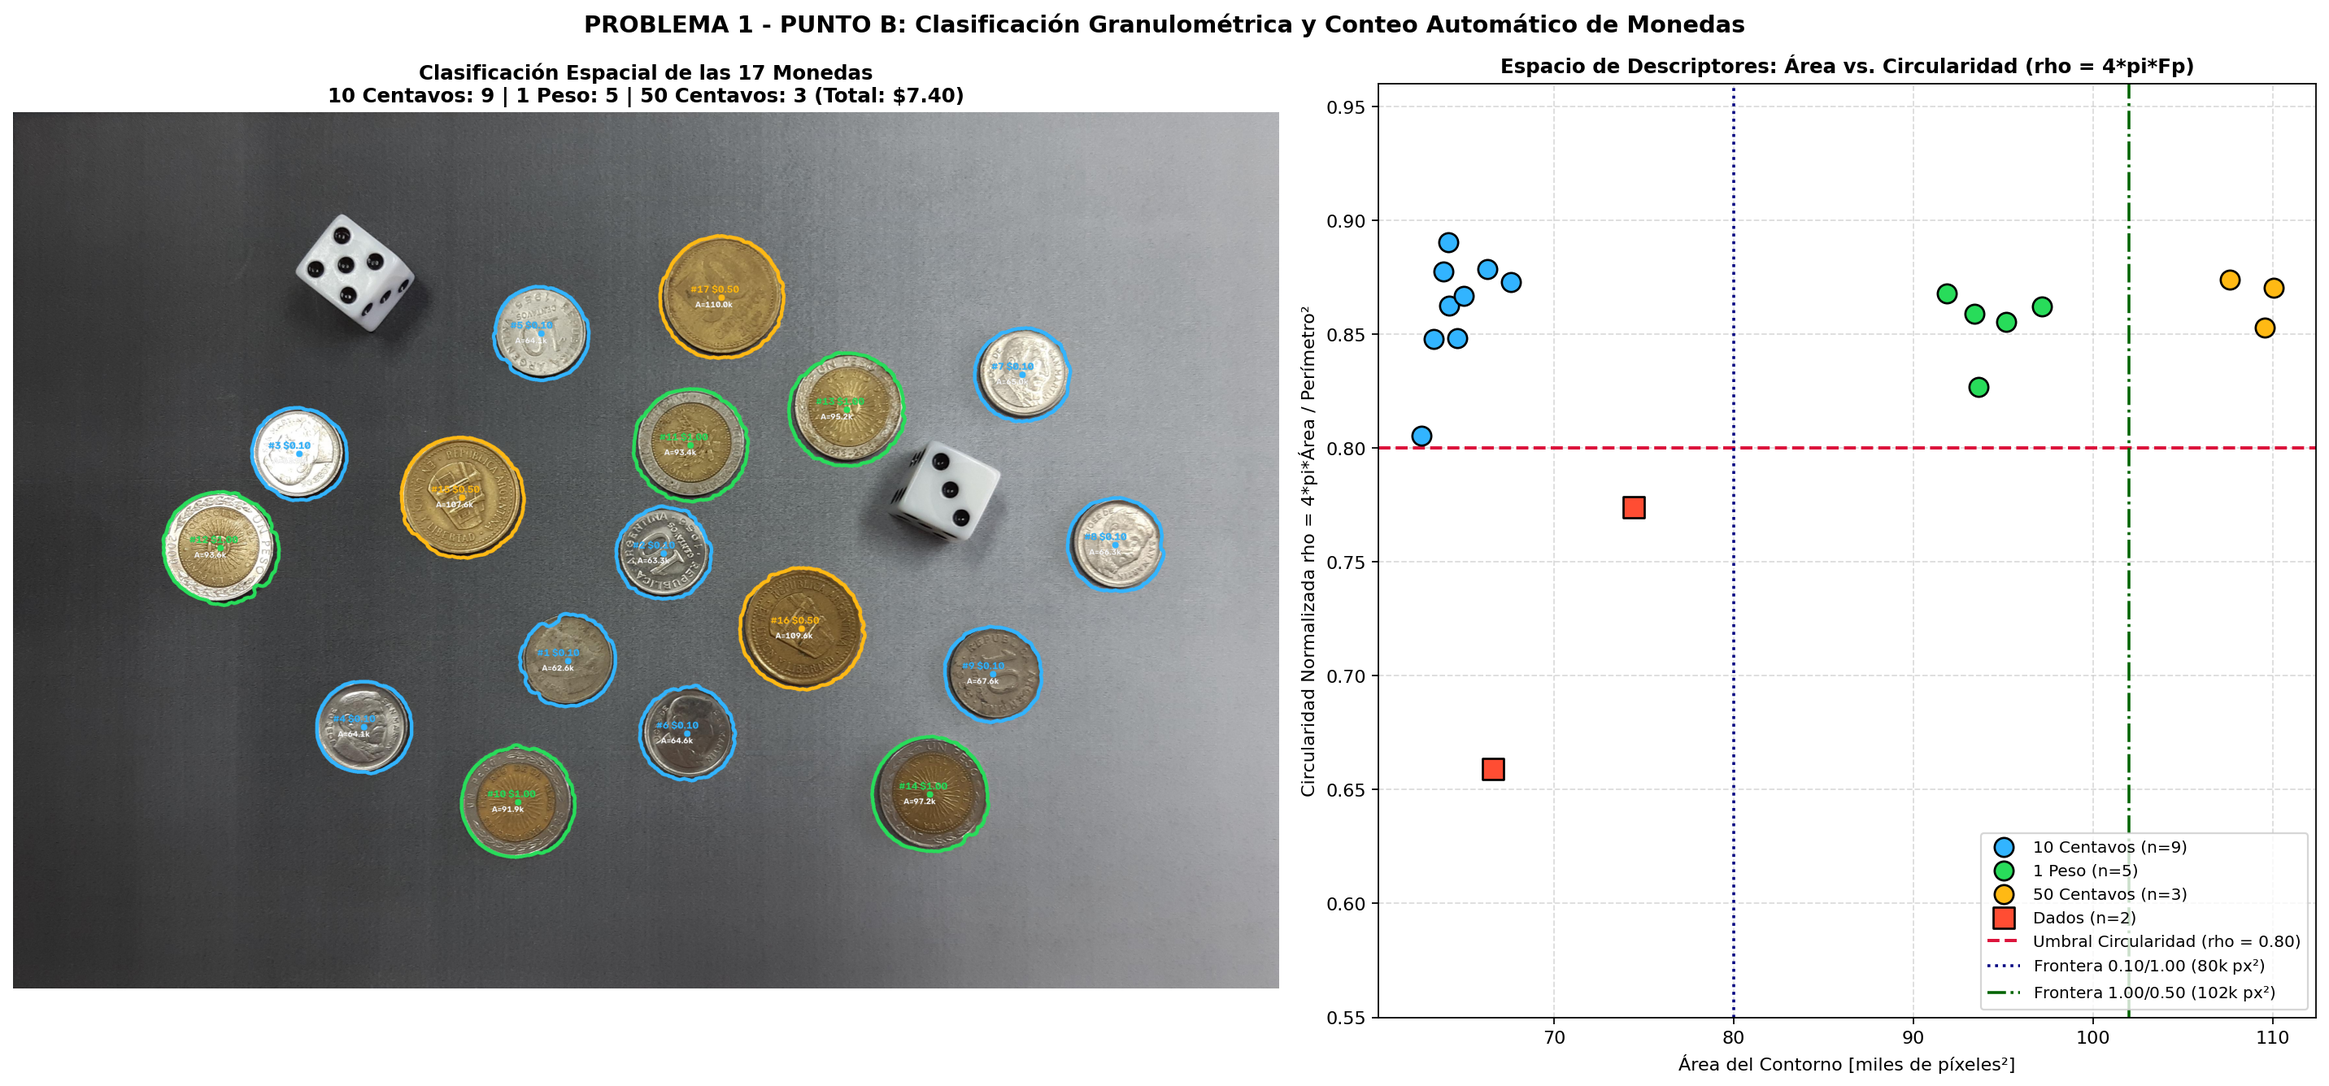
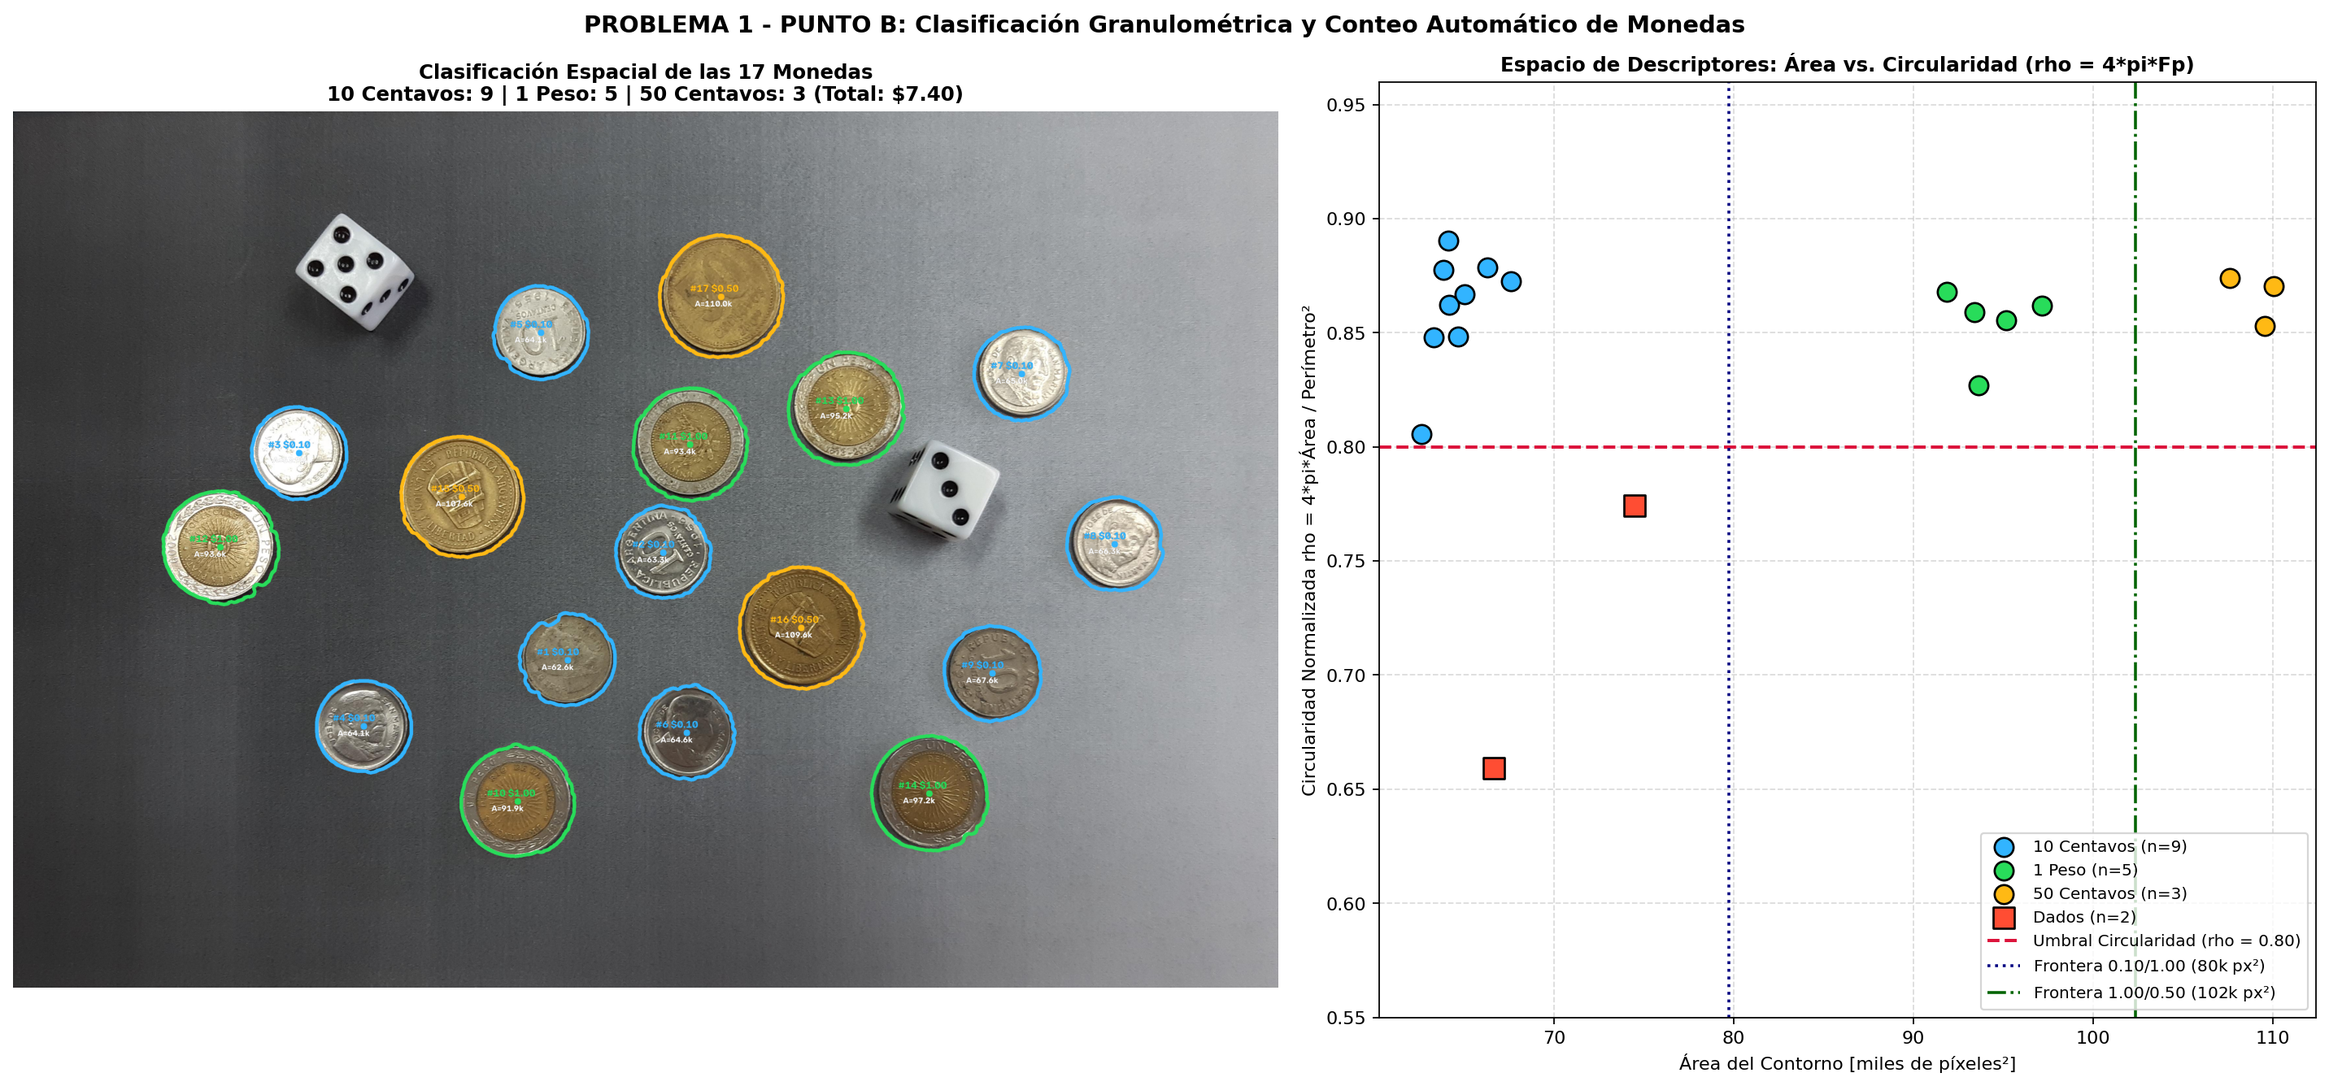
feat(p1): umbrales dinamicos, invarianza a escala, histograma grad_u8 y layout 4x2

diff --git a/problema1_monedas_y_dados.py b/problema1_monedas_y_dados.py
@@ -105,6 +105,18 @@ def segmentar_objetos(img_bgr):
     """
     # 1. Conversión a escala de grises (Unidad 1 / Unidad 5)
     gray = cv2.cvtColor(img_bgr, cv2.COLOR_BGR2GRAY)
+    h_img, w_img = gray.shape
+    dim_min = float(min(h_img, w_img))
+
+    def _impar(val, minimo=3):
+        v = max(minimo, int(round(val)))
+        return v if v % 2 == 1 else v + 1
+
+    # Tamaños de filtro y EE proporcionales a la resolución (invarianza a escala)
+    k_med = _impar(dim_min * 0.0041, minimo=3)     # 11 en 3871x2681
+    pad_borde = max(3, int(round(dim_min * 0.0037)))  # 10 px en 3871x2681
+    k_close = _impar(dim_min * 0.0056, minimo=3)   # 15 en 3871x2681
+    k_open = _impar(dim_min * 0.0115, minimo=5)    # 31 en 3871x2681
 
     # Demostración de por qué falla el umbralado global directo sobre fondo no uniforme
     th_otsu_global, bw_otsu_global = cv2.threshold(
@@ -113,7 +125,7 @@ def segmentar_objetos(img_bgr):
 
     # 2. Filtrado espacial de mediana para eliminar ruido impulsivo y textura del fondo
     #    preservando los bordes de las monedas y dados (Unidad 2)
-    gray_med = cv2.medianBlur(gray, 11)
+    gray_med = cv2.medianBlur(gray, k_med)
 
     # 3. Magnitud exacta del Gradiente de Sobel (Unidad 3: PDI_U3_Segmentacion.py)
     #    La derivada espacial suprime el gradiente suave de iluminación del fondo
@@ -122,25 +134,50 @@ def segmentar_objetos(img_bgr):
     grad_mag = np.sqrt(grad_x ** 2 + grad_y ** 2)
     grad_u8 = np.uint8(np.clip(grad_mag, 0, 255))
 
-    # Anulamos artefactos de borde de 10 px para garantizar semilla limpia en (0, 0)
-    grad_u8[:10, :] = 0
-    grad_u8[-10:, :] = 0
-    grad_u8[:, :10] = 0
-    grad_u8[:, -10:] = 0
+    # Anulamos artefactos de borde proporcionalmente para garantizar semilla limpia en (0, 0)
+    grad_u8[:pad_borde, :] = 0
+    grad_u8[-pad_borde:, :] = 0
+    grad_u8[:, :pad_borde] = 0
+    grad_u8[:, -pad_borde:] = 0
 
-    # 4. Umbralado estadístico automático del gradiente (Media + 0.9 * Desvío Estándar)
-    th_grad = float(np.round(grad_u8.mean() + 0.9 * grad_u8.std()))
+    # 4. Umbralado estadístico dinámico del gradiente: th_grad = round(mu + k_opt * sigma)
+    #    Barrido sobre k en [0.5, 1.5] para elegir el mayor k que maximiza la cantidad
+    #    de componentes cerradas válidas tras clausura + imfillhole + apertura.
+    AREA_MIN = max(500.0, 0.0014 * float(h_img * w_img))  # ~0.14% del área total (~14,529 px^2 en 3871x2681)
+
+    se_close = cv2.getStructuringElement(cv2.MORPH_ELLIPSE, (k_close, k_close))
+    se_open = cv2.getStructuringElement(cv2.MORPH_ELLIPSE, (k_open, k_open))
+
+    grad_mean = float(grad_u8.mean())
+    grad_std = float(grad_u8.std())
+
+    sweep_k = []
+    best_count = -1
+    k_opt = 0.9
+    for k_cand in np.round(np.arange(0.5, 1.55, 0.1), 2):
+        t_cand = float(np.round(grad_mean + k_cand * grad_std))
+        _, bw_e = cv2.threshold(grad_u8, t_cand, 255, cv2.THRESH_BINARY)
+        bw_c = cv2.morphologyEx(bw_e, cv2.MORPH_CLOSE, se_close)
+        bw_f = imfillhole(bw_c)
+        bw_m = cv2.morphologyEx(bw_f, cv2.MORPH_OPEN, se_open)
+        n_lbl, _, st, _ = cv2.connectedComponentsWithStats(bw_m)
+        valid_cnt = sum(1 for idx_lbl in range(1, n_lbl) if st[idx_lbl, cv2.CC_STAT_AREA] >= AREA_MIN)
+        sweep_k.append({"k": float(k_cand), "th": t_cand, "valid_count": int(valid_cnt)})
+        # En empate de máximo número de objetos, elegimos el mayor k (bordes más limpios sin abrir contornos)
+        if valid_cnt >= best_count:
+            best_count = valid_cnt
+            k_opt = float(k_cand)
+
+    th_grad = float(np.round(grad_mean + k_opt * grad_std))
     _, bw_edges = cv2.threshold(grad_u8, th_grad, 255, cv2.THRESH_BINARY)
 
     # 5. Clausura morfológica para conectar micro-cortes en el perímetro (Unidad 6)
-    se_close = cv2.getStructuringElement(cv2.MORPH_ELLIPSE, (15, 15))
     bw_closed = cv2.morphologyEx(bw_edges, cv2.MORPH_CLOSE, se_close)
 
     # 6. Rellenado morfológico de huecos internos (Unidad 6: imfillhole)
     bw_filled = imfillhole(bw_closed)
 
     # 7. Apertura morfológica para suavizar contornos y eliminar ruido aislado (Unidad 6)
-    se_open = cv2.getStructuringElement(cv2.MORPH_ELLIPSE, (31, 31))
     bw_mask = cv2.morphologyEx(bw_filled, cv2.MORPH_OPEN, se_open)
 
     # 8. Extracción de componentes conexas y separación Monedas vs Dados por Factor de Forma
@@ -150,7 +187,6 @@ def segmentar_objetos(img_bgr):
     num_labels, labels, stats, centroids = cv2.connectedComponentsWithStats(bw_mask)
 
     RHO_TH = 0.80       # Umbral de circularidad de cátedra (clasifico_celulas.py)
-    AREA_MIN = 15000    # Descarte de posibles restos menores
 
     objetos = []
     monedas = []
@@ -208,6 +244,14 @@ def segmentar_objetos(img_bgr):
         "th_otsu_global": th_otsu_global,
         "gray_med": gray_med,
         "grad_u8": grad_u8,
+        "grad_mean": grad_mean,
+        "grad_std": grad_std,
+        "k_med": k_med,
+        "k_close": k_close,
+        "k_open": k_open,
+        "k_opt": k_opt,
+        "sweep_k": sweep_k,
+        "area_min": AREA_MIN,
         "th_grad": th_grad,
         "bw_edges": bw_edges,
         "bw_closed": bw_closed,
@@ -242,8 +286,19 @@ def clasificar_monedas(monedas):
         "50 Centavos": 0.50,
     }
 
-    UMBRAL_AREA_10C_1P = 80000.0
-    UMBRAL_AREA_1P_50C = 102000.0
+    # Cálculo dinámico de los umbrales de área (criterio de máxima separación en 1D):
+    # Se ordenan las áreas de menor a mayor, se calculan los saltos consecutivos
+    # y se ubican los umbrales en el punto medio de los dos mayores saltos inter-clase.
+    areas_ord = sorted(m["area"] for m in monedas)
+    if len(areas_ord) >= 3:
+        diffs = np.diff(areas_ord)
+        top2_idx = sorted(np.argsort(diffs)[-2:])
+        i1, i2 = int(top2_idx[0]), int(top2_idx[1])
+        UMBRAL_AREA_10C_1P = float((areas_ord[i1] + areas_ord[i1 + 1]) / 2.0)
+        UMBRAL_AREA_1P_50C = float((areas_ord[i2] + areas_ord[i2 + 1]) / 2.0)
+    else:
+        UMBRAL_AREA_10C_1P = 80000.0
+        UMBRAL_AREA_1P_50C = 102000.0
 
     monto_total = 0.0
     for idx, m in enumerate(monedas, 1):
@@ -292,13 +347,25 @@ def analizar_dados(img_bgr, gray, dados):
          elipses alargadas: rho <= 0.80 (Fp ~ 0.045, 1/Fp ~ 22.0) y Área ~ 630 px^2.
     """
     RHO_PIP_TH = 0.80
-    AREA_PIP_MIN = 100.0
 
-    se_close_pip = cv2.getStructuringElement(cv2.MORPH_ELLIPSE, (9, 9))
-    se_open_pip = cv2.getStructuringElement(cv2.MORPH_ELLIPSE, (5, 5))
+    def _impar_pip(val, minimo=3):
+        v = max(minimo, int(round(val)))
+        return v if v % 2 == 1 else v + 1
 
     suma_total_dados = 0
     for idx, d in enumerate(dados, 1):
+        # Umbrales de área y kernels morfológicos dinámicos proporcionales al dado (invariantes a escala):
+        # - Ruido residual: < 0.15% del área del dado (~100 px^2 en monedas.jpg)
+        # - Pips de cara superior: ~2.6%-3.2% del área del dado vs laterales ~0.85% -> corte en 1.7% (~1130-1265 px^2)
+        l_dado = float(np.sqrt(d["area"]))
+        k_close_pip = _impar_pip(l_dado * 0.034, minimo=3)  # 9 en monedas.jpg
+        k_open_pip = _impar_pip(l_dado * 0.019, minimo=3)   # 5 en monedas.jpg
+        se_close_pip = cv2.getStructuringElement(cv2.MORPH_ELLIPSE, (k_close_pip, k_close_pip))
+        se_open_pip = cv2.getStructuringElement(cv2.MORPH_ELLIPSE, (k_open_pip, k_open_pip))
+
+        area_pip_min = max(20.0, 0.0015 * d["area"])
+        area_pip_top_min = 0.017 * d["area"]
+
         x, y, w, h = d["bbox"]
         crop_rgb = cv2.cvtColor(img_bgr[y:y+h, x:x+w], cv2.COLOR_BGR2RGB)
         crop_gray = gray[y:y+h, x:x+w]
@@ -321,7 +388,7 @@ def analizar_dados(img_bgr, gray, dados):
 
         for c_pip in cnts_pips:
             a_pip = float(cv2.contourArea(c_pip))
-            if a_pip < AREA_PIP_MIN:
+            if a_pip < area_pip_min:
                 continue
             p_pip = float(cv2.arcLength(c_pip, True))
             fp_pip = a_pip / (p_pip ** 2)
@@ -332,7 +399,7 @@ def analizar_dados(img_bgr, gray, dados):
             cx_p = float(M["m10"] / M["m00"]) if M["m00"] > 0 else 0.0
             cy_p = float(M["m01"] / M["m00"]) if M["m00"] > 0 else 0.0
 
-            es_cara_superior = (rho_pip > RHO_PIP_TH) and (a_pip > 1200.0)
+            es_cara_superior = (rho_pip > RHO_PIP_TH) and (a_pip > area_pip_top_min)
             pip_info = {
                 "cnt": c_pip,
                 "area": a_pip,
@@ -382,30 +449,31 @@ def generar_figuras_problema1(img_bgr, objetos, monedas, dados, etapas, resumen_
 
     # -------------------------------------------------------------------------
     # FIGURA 1 (PUNTO A): Tubería de Preprocesamiento y Segmentación Morfológica
+    # (Disposición en 4 filas x 2 columnas para mayor tamaño y detalle visual)
     # -------------------------------------------------------------------------
-    fig1, axes1 = plt.subplots(2, 4, figsize=(18, 9.5))
+    fig1, axes1 = plt.subplots(4, 2, figsize=(13, 18.5))
     axes1 = axes1.flatten()
 
     axes1[0].imshow(img_rgb)
-    axes1[0].set_title("1. Imagen Original (monedas.jpg)\nFondo de intensidad no uniforme", fontsize=10, fontweight="bold")
+    axes1[0].set_title("1. Imagen Original (monedas.jpg)\nFondo de intensidad no uniforme", fontsize=11, fontweight="bold")
 
     axes1[1].imshow(etapas["bw_otsu_global"], cmap="gray")
-    axes1[1].set_title(f"2. Falla de Otsu Global Directo (T={etapas['th_otsu_global']:.0f})\nEl gradiente de iluminación satura la derecha", fontsize=10, fontweight="bold")
+    axes1[1].set_title(f"2. Falla de Otsu Global Directo (T={etapas['th_otsu_global']:.0f})\nEl gradiente de iluminación satura la derecha", fontsize=11, fontweight="bold")
 
     axes1[2].imshow(etapas["gray_med"], cmap="gray")
-    axes1[2].set_title("3. Escala de Grises + Filtro Mediana (11x11)\nAtenuación de textura preservando bordes", fontsize=10, fontweight="bold")
+    axes1[2].set_title(f"3. Escala de Grises + Filtro Mediana ({etapas['k_med']}x{etapas['k_med']})\nAtenuación de textura preservando bordes", fontsize=11, fontweight="bold")
 
     axes1[3].imshow(etapas["grad_u8"], cmap="gray")
-    axes1[3].set_title("4. Magnitud del Gradiente de Sobel\nInvariante a la iluminación no uniforme", fontsize=10, fontweight="bold")
+    axes1[3].set_title("4. Magnitud del Gradiente de Sobel\nInvariante a la iluminación no uniforme", fontsize=11, fontweight="bold")
 
     axes1[4].imshow(etapas["bw_edges"], cmap="gray")
-    axes1[4].set_title(f"5. Umbralado del Gradiente (T={etapas['th_grad']:.0f})\nBordes binarios de monedas y dados", fontsize=10, fontweight="bold")
+    axes1[4].set_title(f"5. Umbralado Dinámico del Gradiente (T={etapas['th_grad']:.0f}, k={etapas['k_opt']:.1f})\nBordes binarios de monedas y dados", fontsize=11, fontweight="bold")
 
     axes1[5].imshow(etapas["bw_closed"], cmap="gray")
-    axes1[5].set_title("6. Clausura Morfológica (Elipse 15x15)\nCierre de brechas en contornos exteriores", fontsize=10, fontweight="bold")
+    axes1[5].set_title(f"6. Clausura Morfológica (Elipse {etapas['k_close']}x{etapas['k_close']})\nCierre de brechas en contornos exteriores", fontsize=11, fontweight="bold")
 
     axes1[6].imshow(etapas["bw_mask"], cmap="gray")
-    axes1[6].set_title("7. Rellenado (imfillhole) + Apertura (31x31)\nMáscara binaria sólida de los 19 objetos", fontsize=10, fontweight="bold")
+    axes1[6].set_title(f"7. Rellenado (imfillhole) + Apertura ({etapas['k_open']}x{etapas['k_open']})\nMáscara binaria sólida de los 19 objetos", fontsize=11, fontweight="bold")
 
     # Visualización de Monedas vs Dados por Factor de Forma
     vis_seg = img_rgb.copy()
@@ -418,15 +486,87 @@ def generar_figuras_problema1(img_bgr, objetos, monedas, dados, etapas, resumen_
         cv2.putText(vis_seg, etiqueta, (cx - 110, cy), cv2.FONT_HERSHEY_SIMPLEX, 0.9, color, 2, cv2.LINE_AA)
 
     axes1[7].imshow(vis_seg)
-    axes1[7].set_title(f"8. Punto A: Segmentación por Factor de Forma\n17 Monedas (rho > 0.80) y 2 Dados (rho <= 0.80)", fontsize=10, fontweight="bold")
+    axes1[7].set_title(f"8. Punto A: Segmentación por Factor de Forma\n17 Monedas (rho > 0.80) y 2 Dados (rho <= 0.80)", fontsize=11, fontweight="bold")
 
     for ax in axes1:
         ax.axis("off")
 
-    plt.suptitle("PROBLEMA 1 - PUNTO A: Segmentación Automática de Monedas y Dados sobre Fondo No Uniforme", fontsize=13, fontweight="bold")
-    plt.tight_layout()
+    plt.suptitle("PROBLEMA 1 - PUNTO A: Segmentación Automática de Monedas y Dados sobre Fondo No Uniforme", fontsize=13.5, fontweight="bold")
+    plt.tight_layout(rect=[0, 0, 1, 0.98])
     fig1_path = os.path.join(out_dir, "p1_puntoA_etapas_segmentacion.png")
     fig1.savefig(fig1_path, dpi=160, bbox_inches="tight")
+
+    # -------------------------------------------------------------------------
+    # FIGURA 1B (PUNTO A): Histograma de grad_u8 y Sensibilidad del Umbral k
+    # -------------------------------------------------------------------------
+    grad_u8 = etapas["grad_u8"]
+    grad_mean = etapas["grad_mean"]
+    grad_std = etapas["grad_std"]
+    k_opt = etapas["k_opt"]
+    th_grad = etapas["th_grad"]
+    area_min = etapas["area_min"]
+
+    th_grad_otsu, _ = cv2.threshold(grad_u8, 0, 255, cv2.THRESH_BINARY + cv2.THRESH_OTSU)
+    th_grad_tri, _ = cv2.threshold(grad_u8, 0, 255, cv2.THRESH_BINARY + cv2.THRESH_TRIANGLE)
+
+    fig1b = plt.figure(figsize=(16, 9.5))
+    gs1b = fig1b.add_gridspec(2, 6, height_ratios=[1.1, 1.0], hspace=0.35, wspace=0.25)
+
+    # Panel 1: Histograma de grad_u8 (escala logarítmica para ver la cola)
+    ax_hist = fig1b.add_subplot(gs1b[0, :3])
+    hist_vals = cv2.calcHist([grad_u8], [0], None, [256], [0, 256]).flatten()
+    bins_x = np.arange(101)
+    ax_hist.bar(bins_x, hist_vals[:101], width=1.0, color="#64748b", edgecolor="none", alpha=0.85)
+    ax_hist.set_yscale("log")
+    ax_hist.axvline(grad_mean, color="#0284c7", linestyle=":", linewidth=2.0, label=f"Media μ = {grad_mean:.1f}")
+    ax_hist.axvline(th_grad_tri, color="#f59e0b", linestyle="--", linewidth=1.8, label=f"Triangle (T={th_grad_tri:.0f}, ruido)")
+    ax_hist.axvline(th_grad, color="#16a34a", linestyle="-", linewidth=2.5, label=f"Dinámico μ+{k_opt:.1f}σ (T={th_grad:.0f})")
+    ax_hist.axvline(th_grad_otsu, color="#dc2626", linestyle="--", linewidth=1.8, label=f"Otsu sobre grad (T={th_grad_otsu:.0f}, corta bordes)")
+    ax_hist.set_xlim(-1, 100)
+    ax_hist.set_title("Histograma de grad_u8 (escala log) — Distribución asimétrica a la derecha", fontsize=10.5, fontweight="bold")
+    ax_hist.set_xlabel("Magnitud del Gradiente de Sobel (grad_u8)", fontsize=9.5)
+    ax_hist.set_ylabel("Cantidad de píxeles (log)", fontsize=9.5)
+    ax_hist.grid(True, alpha=0.25, which="both")
+    ax_hist.legend(fontsize=8.5, loc="upper right")
+
+    # Panel 2: Barrido dinámico de k vs cantidad de objetos cerrados válidos
+    ax_sweep = fig1b.add_subplot(gs1b[0, 3:])
+    ks = [s["k"] for s in etapas["sweep_k"]]
+    counts = [s["valid_count"] for s in etapas["sweep_k"]]
+    ax_sweep.plot(ks, counts, "-o", color="#1e3a8a", linewidth=2.0, markersize=6)
+    ax_sweep.axvline(k_opt, color="#16a34a", linestyle="--", linewidth=2.0, label=f"k óptimo seleccionado = {k_opt:.1f} (T={th_grad:.0f})")
+    ax_sweep.scatter([k_opt], [max(counts)], color="#16a34a", s=110, zorder=5)
+    ax_sweep.set_title("Cálculo Dinámico de k: Estabilidad Morfológica (Objetos Cerrados Válidos)", fontsize=10.5, fontweight="bold")
+    ax_sweep.set_xlabel("Factor multiplicador k  (T = round(μ + k·σ))", fontsize=9.5)
+    ax_sweep.set_ylabel("Componentes cerradas válidas", fontsize=9.5)
+    ax_sweep.set_ylim(0, max(counts) + 4)
+    ax_sweep.grid(True, alpha=0.25)
+    ax_sweep.legend(fontsize=8.5, loc="lower left")
+
+    # Paneles inferiores: Demostración visual de umbral menor, óptimo y mayor
+    se_c_demo = cv2.getStructuringElement(cv2.MORPH_ELLIPSE, (etapas["k_close"], etapas["k_close"]))
+    se_o_demo = cv2.getStructuringElement(cv2.MORPH_ELLIPSE, (etapas["k_open"], etapas["k_open"]))
+    demos = [
+        (0.2, "Umbral MENOR (k=0.2, T={t:.0f})\nRuido fusiona objetos ({n} válidos)", "#f59e0b"),
+        (k_opt, f"Umbral ÓPTIMO (k={k_opt:.1f}, T={{t:.0f}})\nTodos cerrados y separados ({{n}} válidos)", "#16a34a"),
+        (2.5, "Umbral MAYOR (k=2.5, T={t:.0f})\nContornos abiertos, imfillhole falla ({n} válidos)", "#dc2626"),
+    ]
+    for idx_d, (k_val, titulo_tpl, col_borde) in enumerate(demos):
+        ax_d = fig1b.add_subplot(gs1b[1, idx_d * 2:(idx_d + 1) * 2])
+        t_d = float(np.round(grad_mean + k_val * grad_std))
+        _, bw_e_d = cv2.threshold(grad_u8, t_d, 255, cv2.THRESH_BINARY)
+        bw_c_d = cv2.morphologyEx(bw_e_d, cv2.MORPH_CLOSE, se_c_demo)
+        bw_f_d = imfillhole(bw_c_d)
+        bw_m_d = cv2.morphologyEx(bw_f_d, cv2.MORPH_OPEN, se_o_demo)
+        n_d, _, st_d, _ = cv2.connectedComponentsWithStats(bw_m_d)
+        n_valid_d = sum(1 for ii in range(1, n_d) if st_d[ii, cv2.CC_STAT_AREA] >= area_min)
+        ax_d.imshow(bw_m_d, cmap="gray")
+        ax_d.set_title(titulo_tpl.format(t=t_d, n=n_valid_d), fontsize=10, fontweight="bold", color=col_borde)
+        ax_d.axis("off")
+
+    plt.suptitle("PROBLEMA 1 - PUNTO A: Análisis Estadístico de grad_u8 y Efecto del Umbral en la Segmentación", fontsize=13, fontweight="bold")
+    fig1b_path = os.path.join(out_dir, "p1_puntoA_histograma_y_umbrales.png")
+    fig1b.savefig(fig1b_path, dpi=160, bbox_inches="tight")
 
     # -------------------------------------------------------------------------
     # FIGURA 2 (PUNTO B): Clasificación y Conteo Automático de Monedas
@@ -569,7 +709,7 @@ def generar_figuras_problema1(img_bgr, objetos, monedas, dados, etapas, resumen_
     else:
         plt.close("all")
 
-    return [fig1_path, fig2_path, fig3_path]
+    return [fig1_path, fig1b_path, fig2_path, fig3_path]
 
 
 # =============================================================================
@@ -583,7 +723,11 @@ def imprimir_reporte_consola(img_shape, objetos, monedas, dados, etapas, resumen
     print("=" * 88)
     print(f"Dimensiones de la imagen : {img_shape[1]} x {img_shape[0]} px ({img_shape[2]} canales)")
     print(f"Umbral Otsu directo (gris): {etapas['th_otsu_global']:.1f} (falla por fondo de intensidad no uniforme)")
-    print(f"Umbral Gradiente Sobel    : {etapas['th_grad']:.1f} (invariante a la iluminación suave del fondo)")
+    print(
+        f"Umbral Gradiente Sobel    : {etapas['th_grad']:.1f} "
+        f"(dinámico: μ={etapas['grad_mean']:.2f} + {etapas['k_opt']:.1f}·σ={etapas['grad_std']:.2f})"
+    )
+    print(f"Área mínima filtro (AREA_MIN): {etapas['area_min']:.1f} px² (0.14% de H×W)")
 
     print("\n" + "-" * 88)
     print("PUNTO A: SEGMENTACIÓN AUTOMÁTICA DE MONEDAS Y DADOS (Factor de Forma Fp = A / P^2)")
